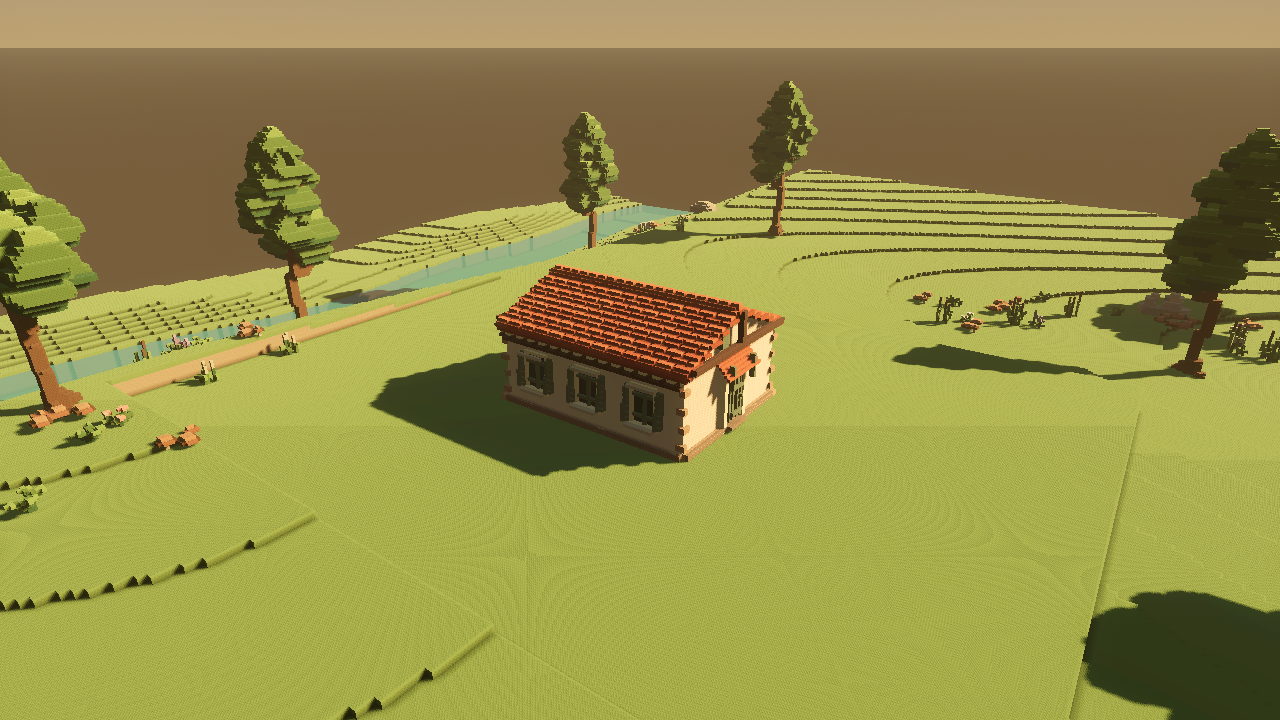
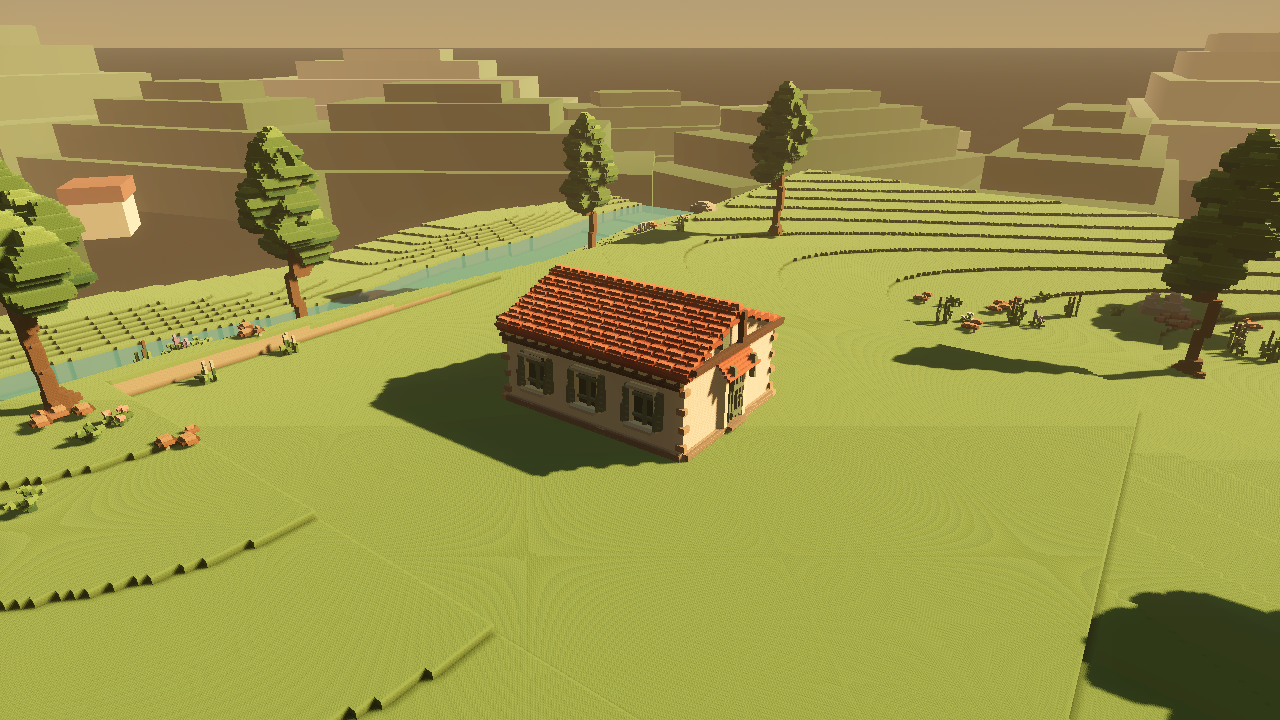
step3 4: notes.md durable state — measured clamp/sky/DOF/draw-call evidence + gate (all 6 required tests 0 failures)

Changed region(s): [[0.0, 0.0611, 0.5938, 0.3667], [0.5938, 0.0306, 1.0, 0.3056], [0.25, 0.2139, 0.4375, 0.3056]]

diff --git a/notes.md b/notes.md
@@ -152,3 +152,94 @@ contrast. Acceptance: re-render full hamlet + cottage captures look
 impressive AND warm; verify with tests/visual_lighting_profile_test.gd
 (still 0 failures) and by eye. Do this AFTER/ALONGSIDE the determinism
 fix, same live file.
+
+## Bob — step 3 run (2026-09-15, camera clamp + hamlet extension + real DOF)
+
+Branch task/visual-overhaul-1. Commits: `ccdfce7` (step3 1-3 first landing),
+`3723c9d` (step3 2-3 tuned: scenery + live DOF hook), then the final commit on
+top (message "step3 4: notes.md durable state ...") which carries THIS section —
+its sha is the branch tip, `git log --oneline -3` (a commit cannot cite its own
+sha without changing it). Remote verified with `git ls-remote`.
+
+**CHAIN MAP CORRECTIONS (measured this run — the old map was wrong in two ways):**
+1. The live INPUT pitch clamp at HEAD was **0.0800 / 1.4000**, not 0.15-1.25.
+   `tools/bob_clamp_probe.gd` drives the real scene's `_read_camera_and_cursor`
+   (the most-derived override, which cascades through every per-file clamp via
+   super) while holding the orbit action. The 0.15-1.25 literals in
+   m1_scene_placement / m2_scene_roof_accessories are applied DEEPER in the
+   cascade and are then re-widened by m1_scene_building_camera / cottage_ux /
+   playtest_repair (0.08-1.40), which execute later in the unwind.
+2. **`m1_scene.gd::_update_depth_of_field` is never called live.** The live
+   camera transform comes from `m1_scene_cottage_style` ->
+   `m1_scene_building_camera` / `m1_scene_thor_retest` / `m1_scene_playtest_repair`,
+   whose `view_context` branches do their own camera math; the m1_scene version
+   (which calls the DOF helper) never runs. Proof: detach `camera.attributes`,
+   call `_update_camera()`, attributes STAY null (tools/bob_dof_proof.gd). So the
+   DOF had to be hooked on an `_update_camera()` override in the live file.
+
+**What landed (live file = scripts/m2_scene_upper_wall_details.gd):**
+- **Camera pitch clamp.** `camera_pitch` is the camera's ELEVATION above the look
+  target, so tilting UP (pad stick up) DECREASES it; with the 52° fov the sky
+  (0° elevation) enters the frame's top edge at pitch = 26° = 0.4538. So the end
+  to tighten is the MIN. `HAMLET_PITCH_MIN := 0.62` (10.5° below the horizon —
+  absorbs the build browser's ~7° upward v_offset shift), enforced by a
+  `_read_camera_and_cursor` override (runs last in the normal cascade) and by the
+  two input paths that bypass that cascade: m2_scene_house_editing (portion
+  placement) and m2_scene_pc_input (mouse drag). Max unchanged.
+  MEASURED: pad-driven min 0.0800 -> **0.6200**, max 1.4000 -> **1.4000**.
+  `tools/bob_skycheck.gd` (sky hemispheres repainted magenta/cyan, review
+  framing): sky pixels in frame = **0 at 0.62 and 0.72**, vs **17.6% at 0.30**
+  and **39.7% at 0.08 (the old floor)**. Log: reports/screenshots/step3-skycheck/.
+- **Distant hamlet/hills.** ONE static MeshInstance3D "DistantHamlet" (4 colour
+  surfaces, cast_shadow OFF, no per-frame work, no landscape records, no new
+  archetypes/node types/scenes) holding 33 mounds + 8 farmsteads in three layers:
+  low far ridges (radius 88-100, h 6-8) that sit in the top frame band, a mid
+  ring of rolling farm hills (radius 56-76, h 9-14) around the whole island, and
+  a far range (radius 119-138, h 15-21) for higher pitches. Visibility geometry
+  for the review framing (pitch 0.72, distance 42): the top edge ray only reaches
+  ground ~138u away, so a far mound must satisfy y_top <= 37.7 - 0.2726*d to stay
+  in frame. Colours #46613a / #546f43 / #c8b894 / #7e4f3c (deep, because the fog
+  washes them out). MEASURED draw-call delta: 871 -> **872 (+1)** with
+  `Performance.RENDER_TOTAL_DRAW_CALLS_IN_FRAME`; mesh AABB 327.7 x 21 x 319.3.
+- **Real DOF on the live camera.** `camera.attributes = CameraAttributesPractical`
+  in `_build_world`, values driven each frame from the new `_update_camera`
+  override: distance-gated at 32u — below it both blur stages are disabled and
+  the close/mid framings (the approved cottage closeup, every close-up render
+  gate) are byte-identical to before (proved: blur-disabled frame vs detached
+  attributes = **0 changed pixels**). At the wide framing:
+  near = distance-20 (transition 12), far = distance+60 (transition 50),
+  amount 0.10. MEASURED (reports/dof-proof/, live vs blur-off, identical camera):
+  22750/460800 sampled pixels changed >3 levels (4.9%) — top band 6.6%, middle
+  3.7%, bottom 4.0%, max channel delta 119. The blur starts BEYOND the village
+  and the hills, so they stay crisp while the far background softens. The first
+  attempt (amount 0.40, far = distance+6, transition 26) smeared the whole
+  horizon into mush — that build was rejected by eye from the capture.
+- **Grade untouched:** saturation 1.06, contrast 1.04, brightness 1.00, sky_top
+  #7f9db5, horizon #e8c98e, ground #8a7a58/#dccca6, fog #e6c193 density 0.0021
+  sky_affect 0.12 depth 14-130, glow 0.5/0.14 additive, ACES exposure 1.05.
+
+**STEP-3 GATE (all from the brief; `tools/bob_step3_gate.sh`, logs /tmp/step3-gate/):**
+```
+backend_test                          exit=0  checks=83  failures=0
+visual_lighting_profile_test          exit=0  checks=50  failures=0
+m1_acceptance_test                    exit=0  checks=112 failures=0
+cottage_detail_render_test  (render)  exit=0  checks=33  failures=0
+m2_hamlet_composition_render_test     exit=0  checks=12  failures=0
+facade_depth_render_test    (render)  exit=0  checks=54  failures=0
+foliage_asset_test                    exit=0  checks=57  failures=0
+joined_roof_course_render_test        exit=1  checks=80  failures=4   <- known pre-existing
+```
+- `joined_roof_course_render_test` = **80 checks / 4 failures, exit 1 —
+  PRE-EXISTING** sub-quantisation drift (same family as the cottage identity
+  flake), NOT a step-3 regression: it was 80/4 at HEAD 186707f too. Not chased
+  (brief says don't).
+- No test file was modified in this run (the cottage tolerance is still the v5.3
+  64px and it was not needed; cottage_detail = 33/0, foliage = 57/0).
+
+**For the next run:** (a) the two screenshots that show the result:
+`reports/screenshots/m2-hamlet/full-hamlet.png` (wide) and
+`reports/screenshots/m1-cottage-detail/*` (closeups, re-rendered by the gate);
+(b) if Pali wants the remaining warm-void corners in the wide shot gone, that is
+more distant mounds or a sky-ground colour change — the latter is grade work and
+needs his approval; (c) the APK/export + Drive delivery per AGENTS.md is still
+outstanding for this branch.
